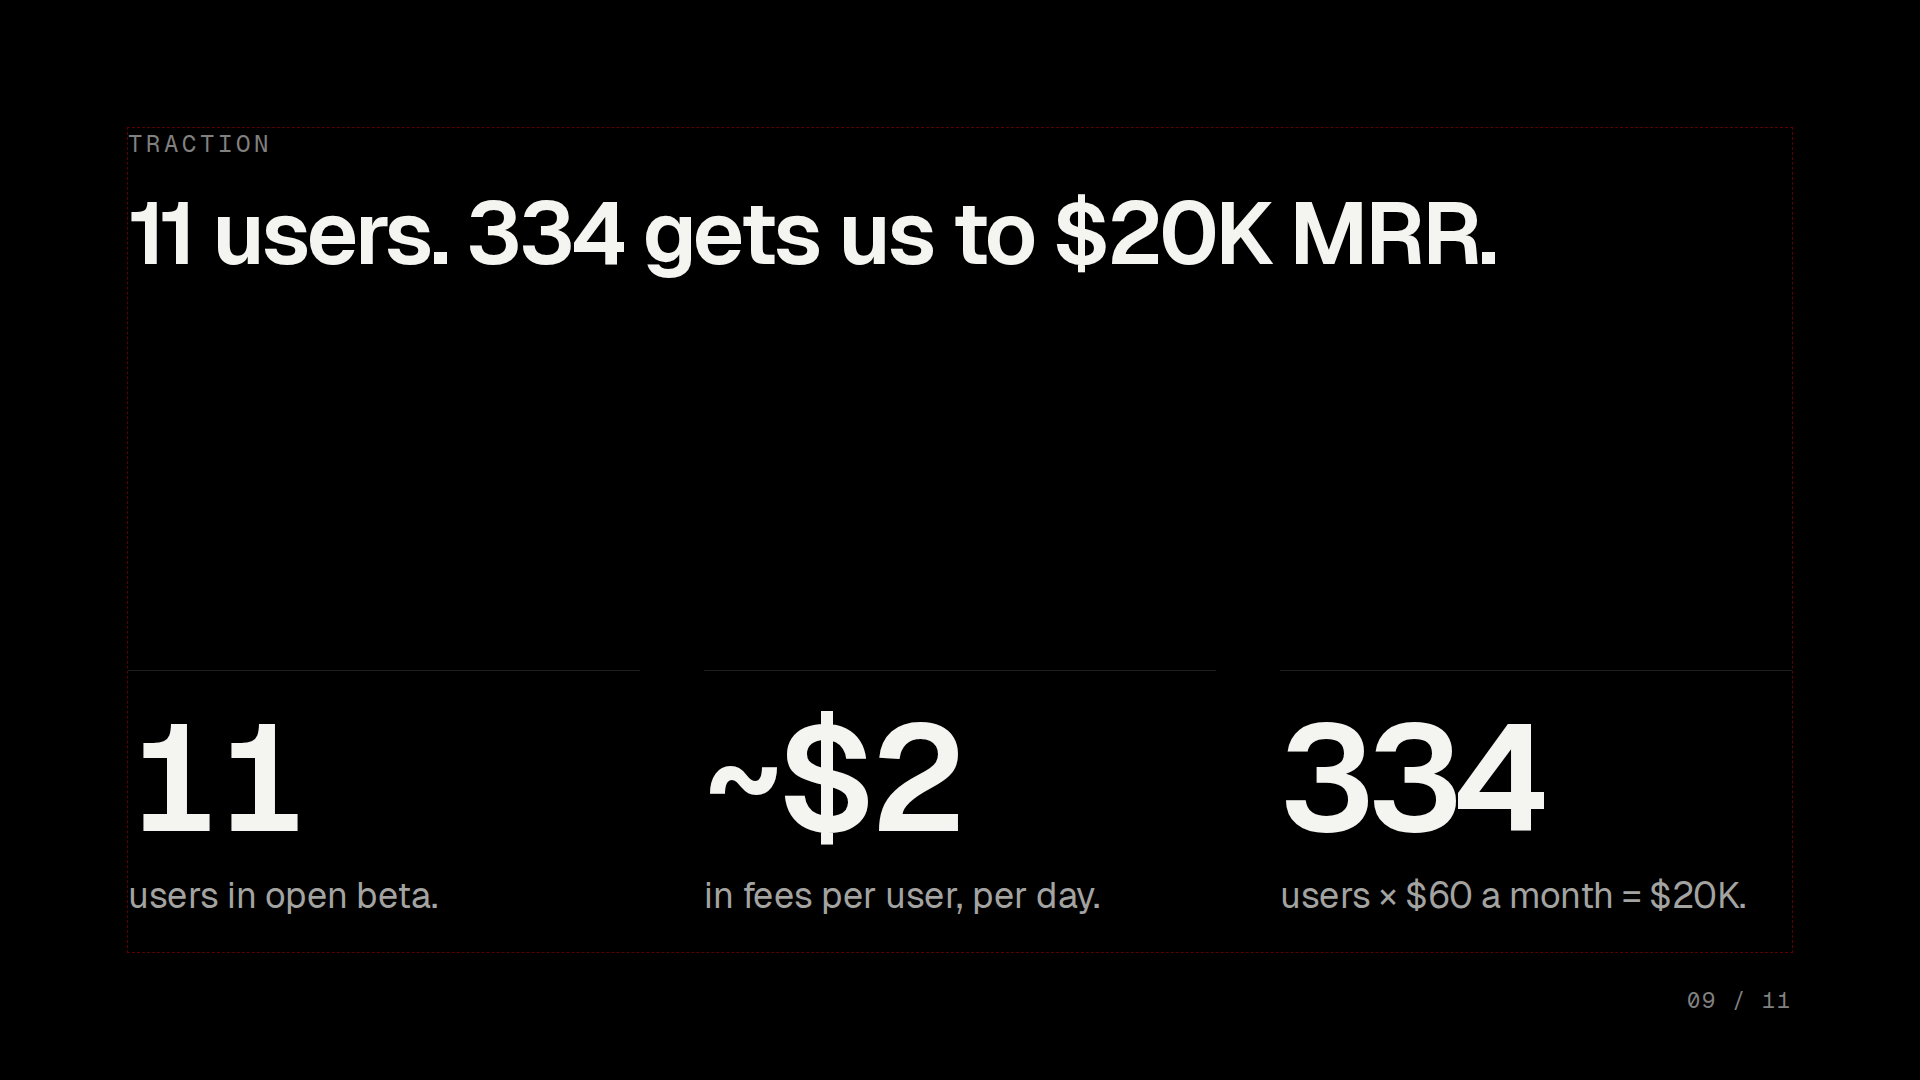
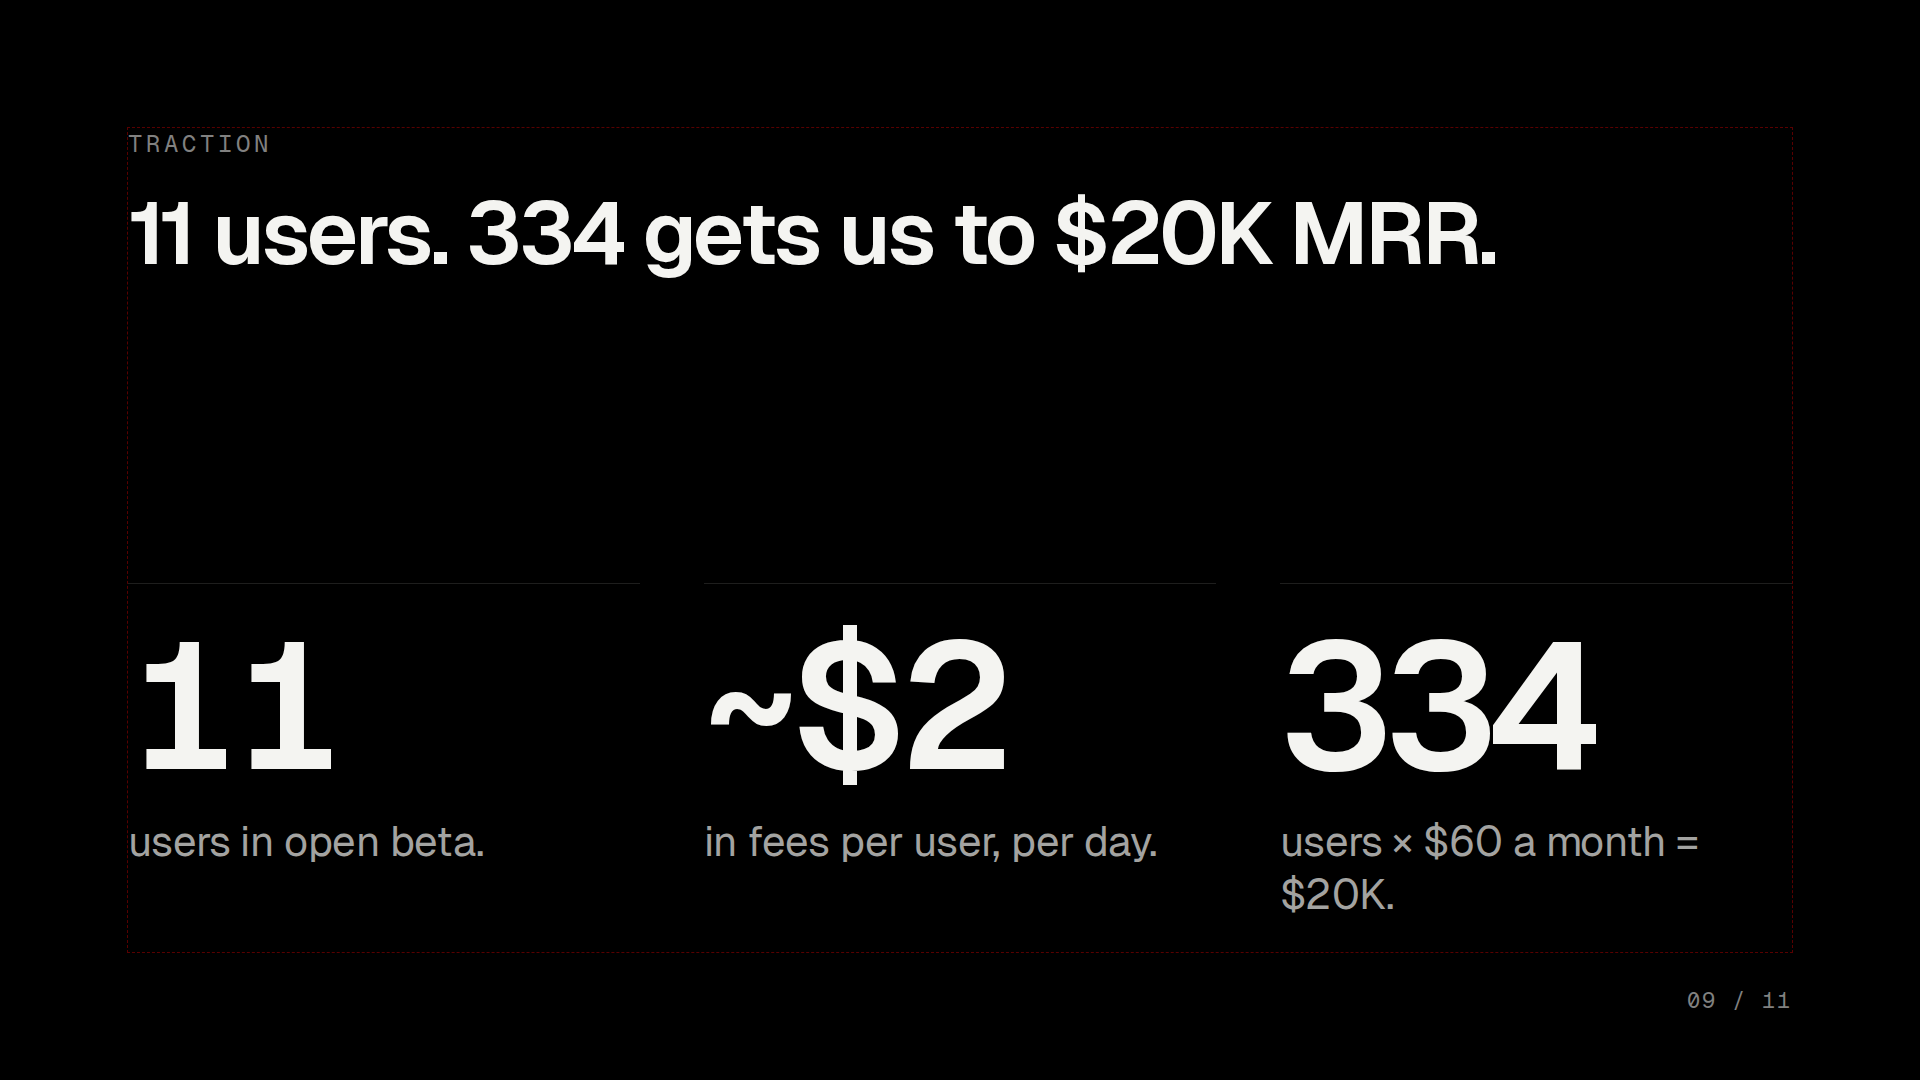
docs(pitch): bigger numbers and taglines; GTM as three big numbers
Claude-Session: https://claude.ai/code/session_01C63X7bmiYFRUvieQLSha7b

diff --git a/docs/pitch/deck/build_simple_slides.py b/docs/pitch/deck/build_simple_slides.py
@@ -19,71 +19,50 @@ def section(sid, eyebrow, headline, body, foot=""):
             f'  <aside>{e(NOTES[sid])}</aside>\n</section>\n')
 
 
-def bigs(items, size):
+def bigs(items, size, weights=None):
     cols = ""
     gap = 96 if len(items) == 2 else 64
-    for num, tag in items:
-        cols += (f'    <div style="display:flex; flex-direction:column; gap:24px; flex:1; padding:36px 0 0; border-top:1px solid {HAIR}">\n'
+    for j, (num, tag) in enumerate(items):
+        w = weights[j] if weights else 1
+        cols += (f'    <div style="display:flex; flex-direction:column; gap:24px; flex:{w}; padding:36px 0 0; border-top:1px solid {HAIR}">\n'
                  f'      <p style="{SANS}; font-size:{size}px; font-weight:600; line-height:0.95; letter-spacing:-{size // 22}px; white-space:nowrap; font-variant-numeric:tabular-nums; color:{FG}">{e(num)}</p>\n'
-                 f'      <p style="{SANS}; font-size:36px; line-height:1.3; letter-spacing:-0.5px; color:{MID}">{e(tag)}</p>\n'
+                 f'      <p style="{SANS}; font-size:42px; line-height:1.25; letter-spacing:-0.6px; color:{MID}">{e(tag)}</p>\n'
                  f'    </div>\n')
     return f'  <div style="display:flex; flex-direction:row; gap:{gap}px">\n{cols}  </div>\n'
 
 
 SLIDES = {
     "problem": ("The problem", "Traders lack edge. Agents lack rails.",
-                bigs([("94%", "of memecoin wallets made no profit in 90 days."),
-                      ("$200", "a month and 20+ services to run your own agent.")], 150),
-                "94%: 304,161 Solana memecoin wallets, fomo × Dune, 90 days to Aug 2026 · $200: list prices, Oct 2026"),
+                bigs([("94%", "of memecoin wallets made no profit."),
+                      ("$200", "a month and 20+ services to run your own agent.")], 180),
+                "94%: 304,161 Solana memecoin wallets over 90 days to Aug 2026, fomo × Dune · $200: list prices, Oct 2026"),
     "solution": ("The solution", "Tocker is the edge and the rails.",
                  bigs([("1 line", "of English launches your agent."),
                        ("10", "hard gates refuse unsafe buys."),
-                       ("24/7", "hosted. Nothing to wire.")], 150), ""),
+                       ("24/7", "hosted. Nothing to wire.")], 180), ""),
     "edge": ("The edge", "Edge starts with not losing.",
-             bigs([("76%", "of new Solana tokens were rugs. Our gates refuse them."),
+             bigs([("76%", "of new tokens were rugs. Gates refuse them."),
                    ("2–7¢", "per token for the data your thesis needs."),
-                   ("0 of 30", "AI agents liquidated, against 43% of humans.")], 150),
-             "76%: SolRugDetector, H1 2025 · 0 of 30: Aster Human vs AI, Season 1, Jan 2026 · 2–7¢: Tocker data registry"),
+                   ("0/30", "AI agents liquidated, against 43% of humans.")], 180),
+             "76%: SolRugDetector, H1 2025 · 0/30: Aster Human vs AI, Season 1, Jan 2026 · 2–7¢: Tocker data registry"),
     "business": ("Business model", "Traders pay 1%. We charge 0.5%.",
                  bigs([("$940M", "paid to Solana trading bots in 2025."),
-                       ("0.5%", "our fee per trade. Live today.")], 150),
+                       ("0.5%", "our fee per trade. Live today.")], 180),
                  "Solana Foundation 2025 recap (Blockworks) · 1% bots: Photon, Trojan, BonkBot"),
     "traction": ("Traction", "11 users. 334 gets us to $20K MRR.",
                  bigs([("11", "users in open beta."),
                        ("~$2", "in fees per user, per day."),
-                       ("334", "users × $60 a month = $20K.")], 150),
+                       ("334", "users × $60 a month = $20K.")], 180),
                  ""),
 }
 
 
 def gtm():
-    def row(k, big, tag):
-        return (f'      <div style="display:flex; flex-direction:column; gap:12px; padding:24px 0 20px; border-top:1px solid {HAIR}">\n'
-                f'        <p style="{MONO}; font-size:24px; letter-spacing:4px; text-transform:uppercase; color:{DIM}">{e(k)}</p>\n'
-                f'        <p style="{SANS}; font-size:88px; font-weight:600; line-height:1; letter-spacing:-3px; white-space:nowrap; color:{FG}">{e(big)}</p>\n'
-                f'        <p style="{SANS}; font-size:34px; line-height:1.3; letter-spacing:-0.5px; color:{MID}">{e(tag)}</p>\n'
-                f'      </div>\n')
-
-    def mkt(k, num, tag):
-        return (f'      <div style="display:flex; flex-direction:row; gap:28px; align-items:baseline; padding:26px 0; border-top:1px solid {HAIR}">\n'
-                f'        <p style="width:92px; {MONO}; font-size:24px; letter-spacing:3px; text-transform:uppercase; color:{DIM}">{e(k)}</p>\n'
-                f'        <p style="width:290px; {SANS}; font-size:88px; font-weight:600; line-height:1; letter-spacing:-3px; font-variant-numeric:tabular-nums; color:{FG}">{e(num)}</p>\n'
-                f'        <p style="flex:1; {SANS}; font-size:32px; line-height:1.25; color:{MID}">{e(tag)}</p>\n'
-                f'      </div>\n')
-    left = (f'    <div style="display:flex; flex-direction:column; flex:1">\n'
-            f'      <p style="{MONO}; font-size:24px; letter-spacing:4px; text-transform:uppercase; color:{MID}; padding:0 0 18px">How we get users</p>\n'
-            + row("01 · Superteam Earn bounty", "$5K", "Our test: the first autonomous trading competition. Best strategy wins.")
-            + row("02 · X", "Ads + DMs", "Paid ads and cold DMs to traders on X.")
-            + '    </div>\n')
-    right = (f'    <div style="display:flex; flex-direction:column; flex:1">\n'
-             f'      <p style="{MONO}; font-size:24px; letter-spacing:4px; text-transform:uppercase; color:{MID}; padding:0 0 18px">Where we expand · yearly volume</p>\n'
-             + mkt("Now", "$482B", "Solana memecoins")
-             + mkt("Next", "$21.5B", "Polymarket")
-             + mkt("Then", "$12.4B", "Tokenized stocks")
-             + '    </div>\n')
-    body = f'  <div style="display:flex; flex-direction:row; gap:96px; align-items:start">\n{left}{right}  </div>\n'
+    body = bigs([("$5K", "Superteam bounty. Best AI strategy wins."),
+                 ("X", "Paid ads and cold DMs."),
+                 ("$482B", "Solana memecoins. Then Polymarket and stocks.")], 180, [1, 0.8, 1.45])
     return section("gtm", "Go-to-market", "Win traders. Then new markets.", body,
-                   "$482B: Solana 2025 recap · $21.5B: Polymarket 2025, Keyrock × Dune · $12.4B: Solana tokenized stocks, 2026 to date")
+                   "$482B: Solana memecoin volume, 2025 recap · Polymarket $21.5B (2025) · Solana tokenized stocks $12.4B (2026 to date)")
 
 
 for sid, (eb, h, body, foot) in SLIDES.items():
